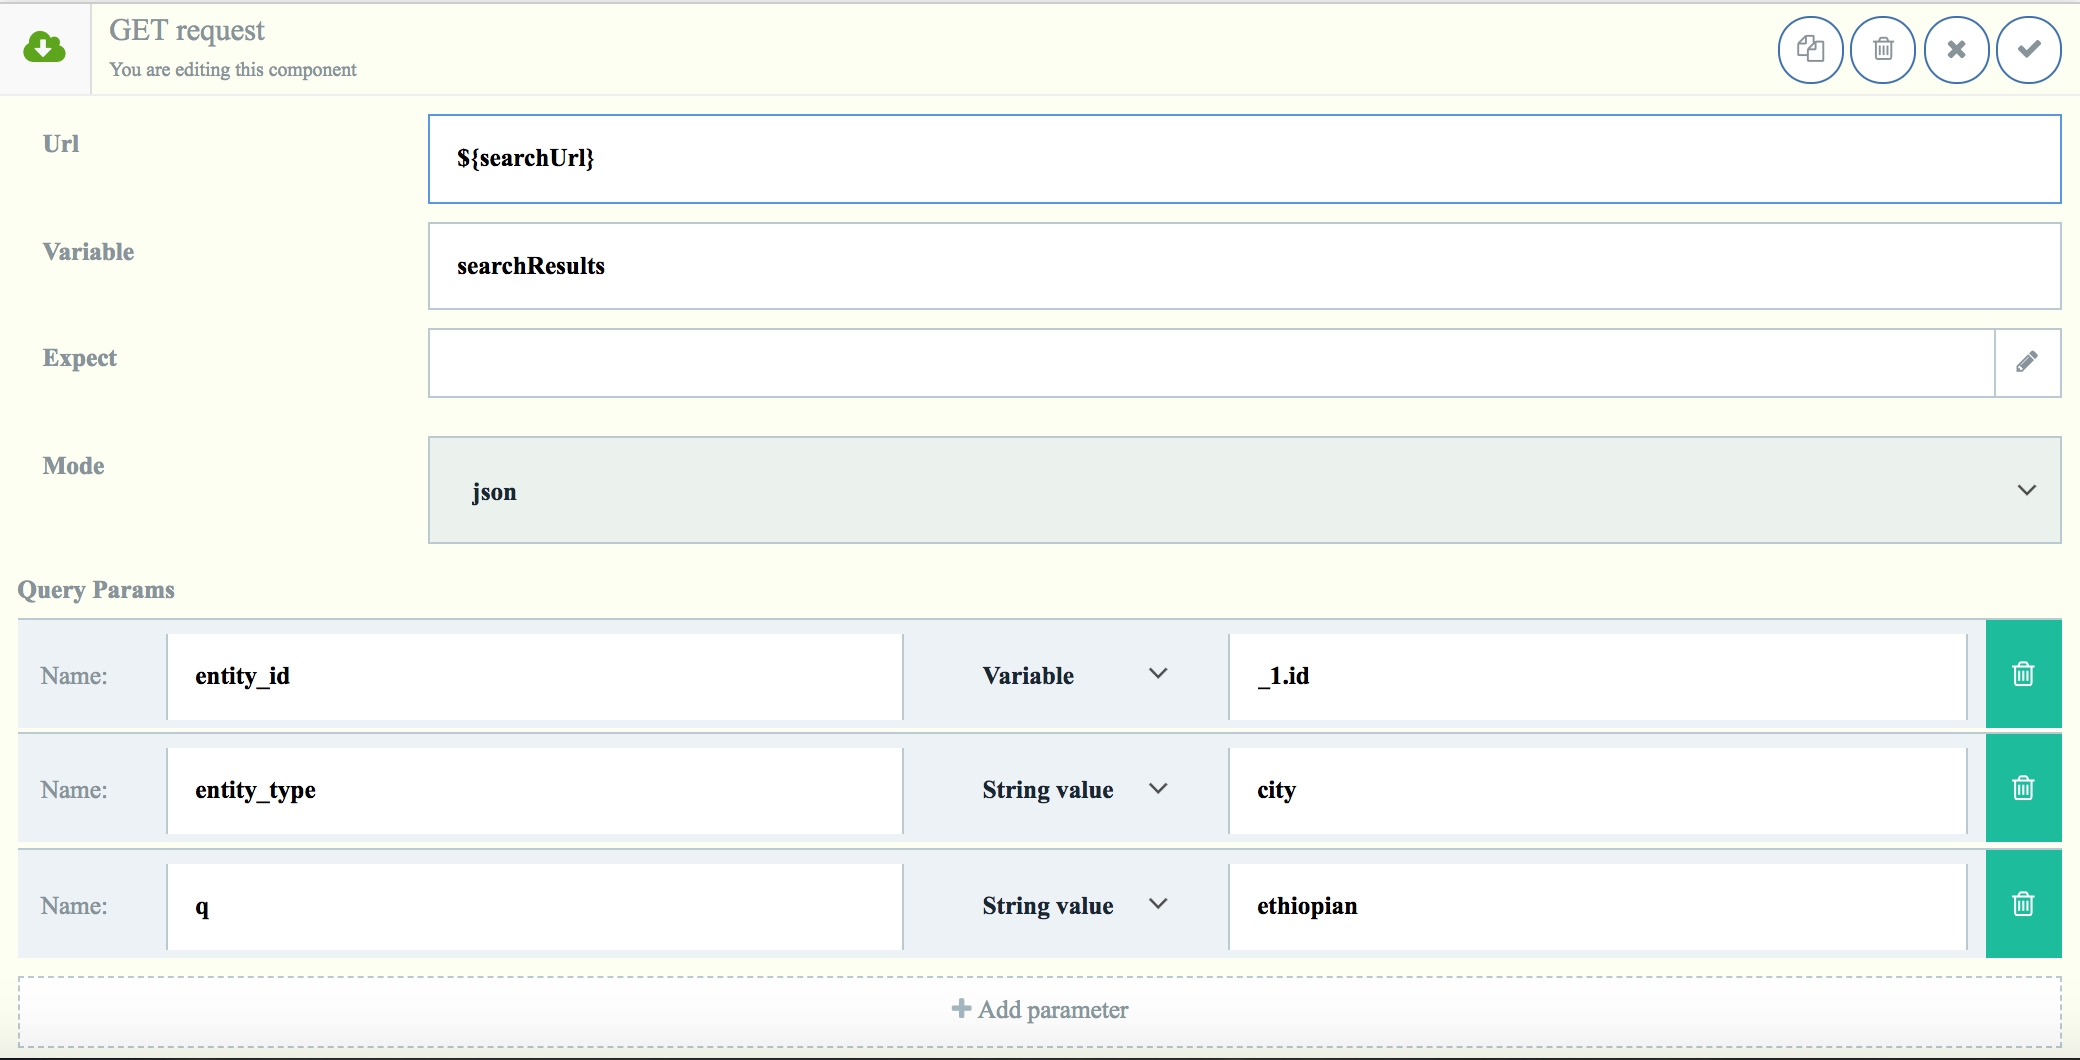
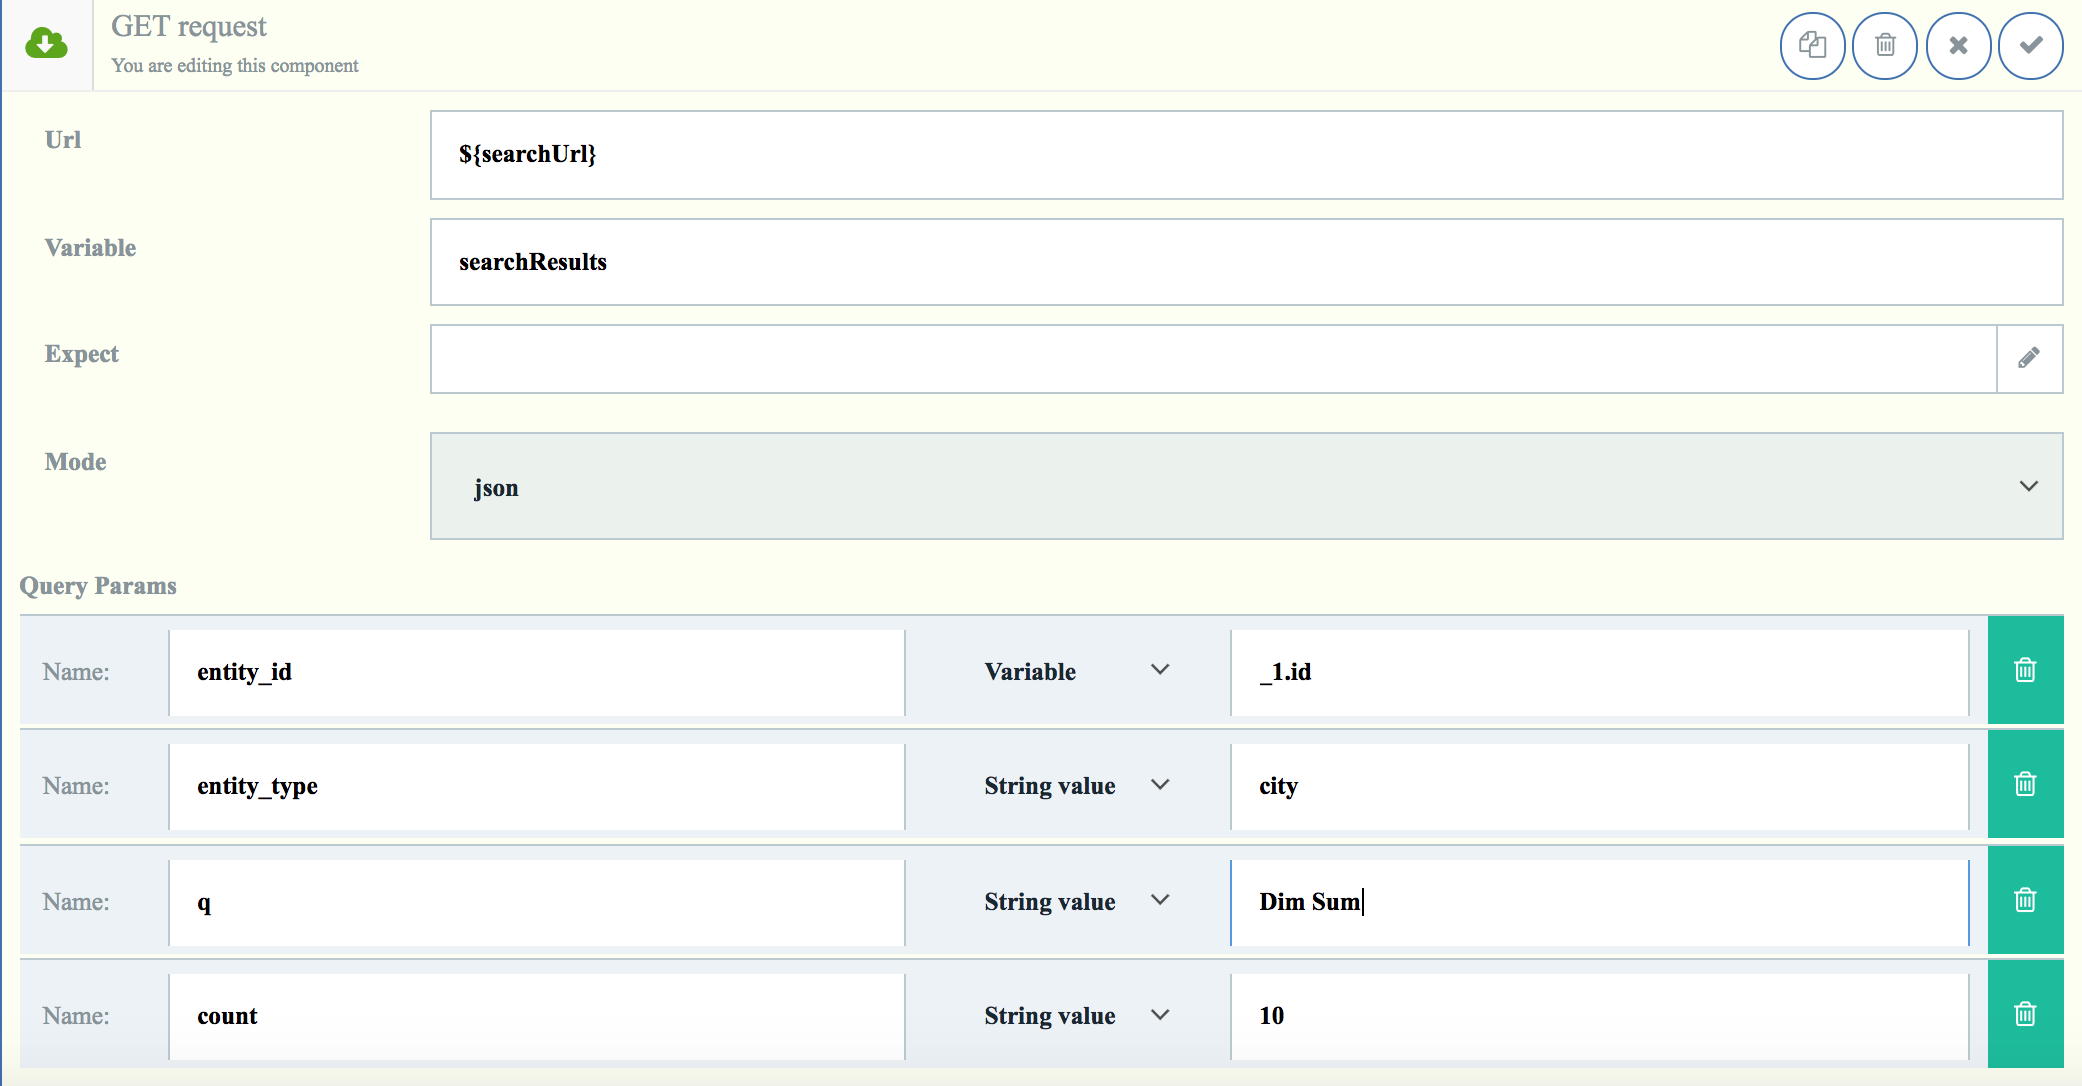
update food

diff --git a/README.md b/README.md
@@ -84,7 +84,8 @@ The screen should now look like this:
 
         Name: entity_id, Variable: _1.id
         Name: entity_type, String value: city
-        Name: q, String value: “Ethiopian” (or example cuisine of your choice).
+        Name: count, String value: 10
+        Name: q, String value: “Dim Sum” (or example cuisine of your choice).
 
 The GET should now look like this:
 
